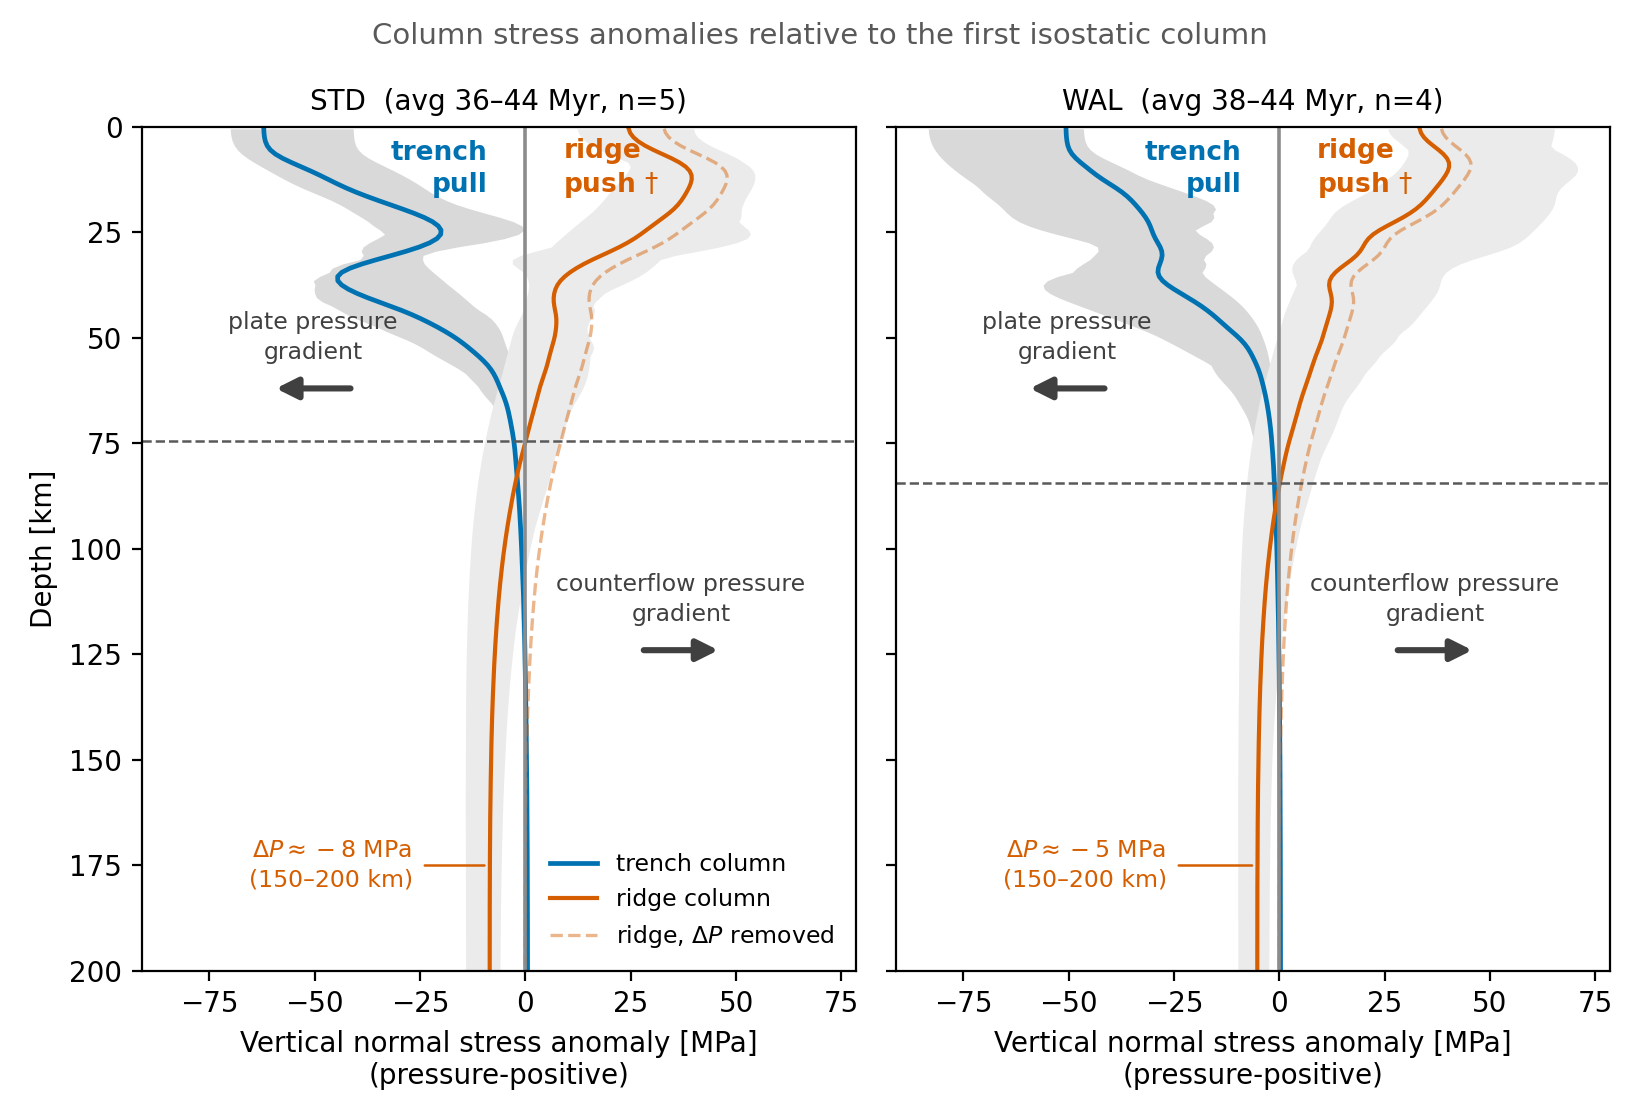
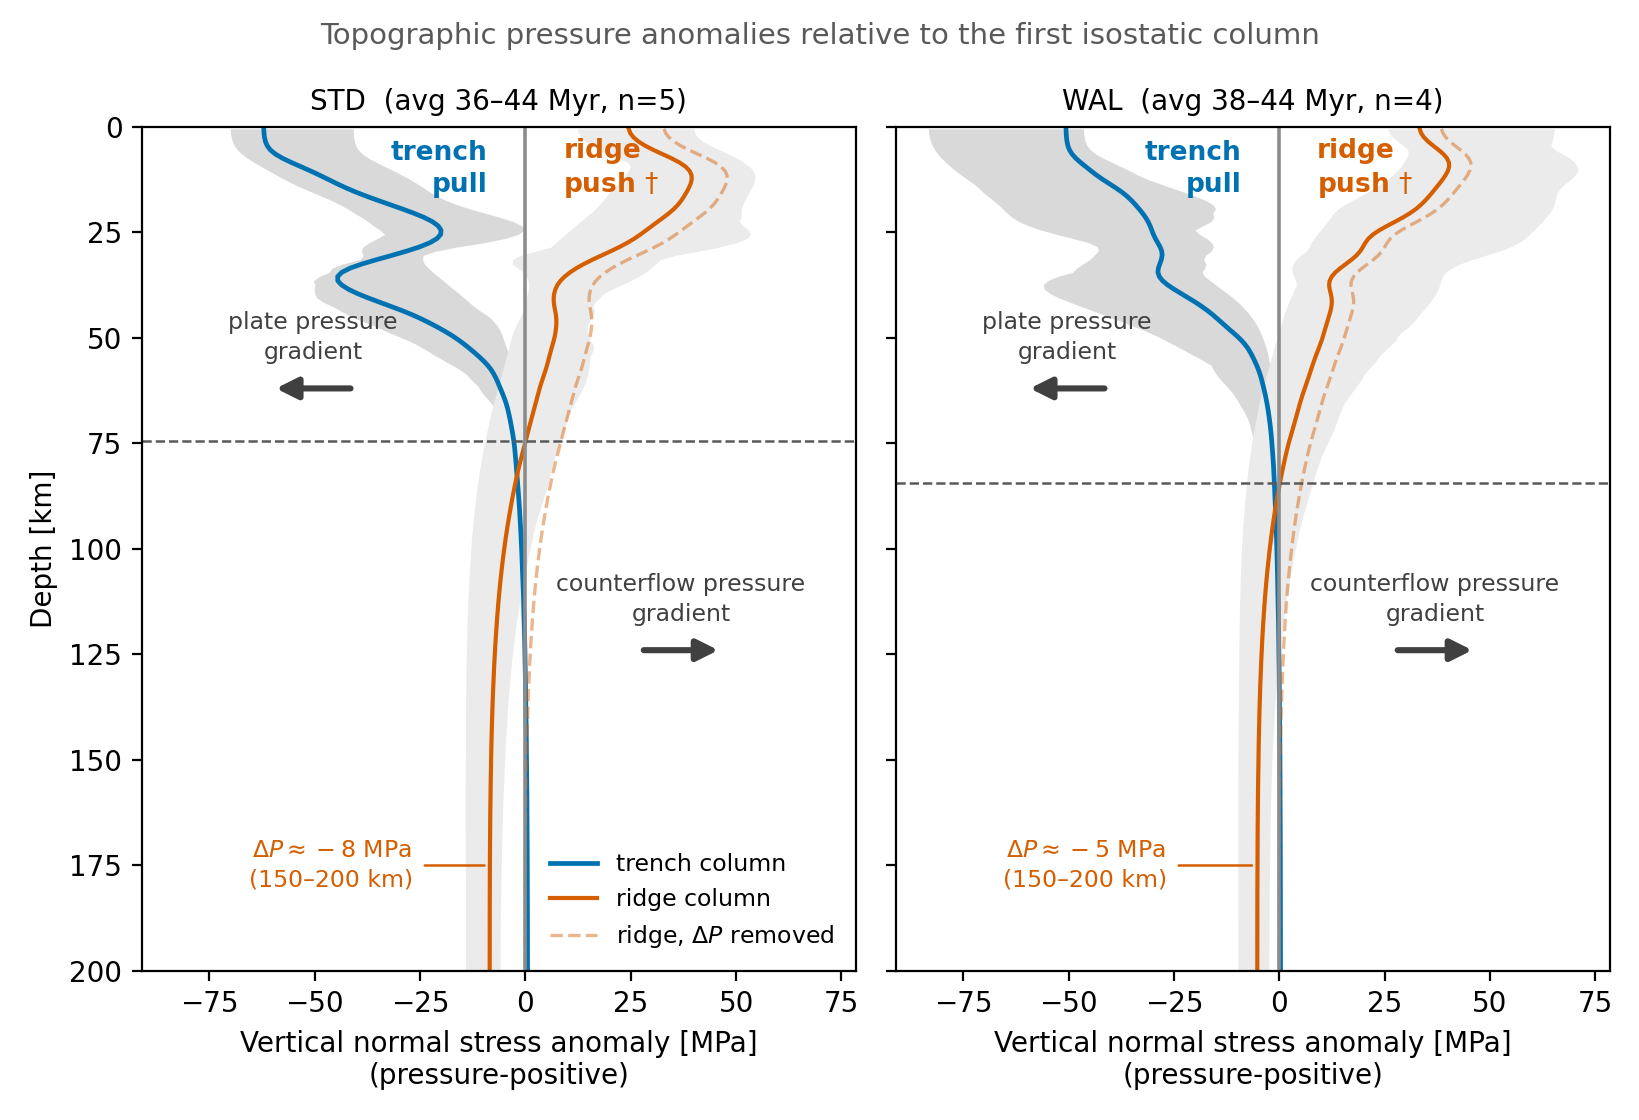
fig_column_anomalies: title uses the locked term
'Column stress anomalies' -> 'Topographic pressure anomalies relative to
the first isostatic column'. 'Topographic pressure anomaly' is SYMBOLOGY
4.4 locked vocabulary, so the title now uses the manuscript's own term
rather than a generic one. The x label still names the plotted quantity
exactly (vertical normal stress, pressure-positive); the title names the
concept.

Changed region(s): [[0.2178, 0.0, 0.7779, 0.0625]]

diff --git a/scripts/fig_column_anomalies.py b/scripts/fig_column_anomalies.py
@@ -32,8 +32,9 @@ Sign pin (asserted before rendering): the trench-lobe integral over 0..z_c
 must reproduce the committed f10 trench pulls (1.71 STD / 1.74 WAL TN/m)
 to within 3 %.
 
-DRAFT CAPTION. Vertical normal stress anomalies of the trench and ridge
-columns relative to the first isostatic column, for STD (left) and WAL
+DRAFT CAPTION. Topographic pressure anomalies of the trench and ridge
+columns relative to the first isostatic column, measured as the vertical
+normal stress, for STD (left) and WAL
 (right), in the pressure-positive register. Solid curves are means over
 the mid-run window (36-44 Myr, n = 5, and 38-44 Myr, n = 4); the grey
 bands are the full range over 8-80 Myr. Blue is the anomaly of the trench
@@ -218,8 +219,12 @@ def main():
     axes[0].legend(fontsize=8.5, frameon=False, loc='lower right')
     # Title names the subject only; the bands, the dashed line and the
     # averaging windows are caption material (Dan, 2026-09-26).
-    fig.suptitle('Column stress anomalies relative to the first isostatic column',
-                 fontsize=10.5, color='0.35')
+    # 'Topographic pressure anomaly' is SYMBOLOGY §4.4 locked vocabulary,
+    # so the title uses the manuscript's own term rather than the generic
+    # 'column stress anomalies' (Dan, 2026-09-26). The x label keeps naming
+    # the plotted quantity exactly; the title names the concept.
+    fig.suptitle('Topographic pressure anomalies relative to the first '
+                 'isostatic column', fontsize=10.5, color='0.35')
     fig.tight_layout()
     out = os.path.join(os.path.dirname(os.path.dirname(os.path.abspath(__file__))),
                        'figures', 'fig_column_anomalies.png')
